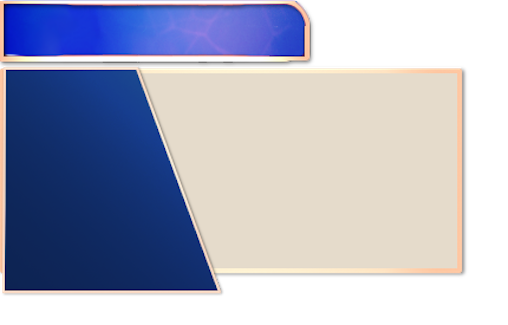
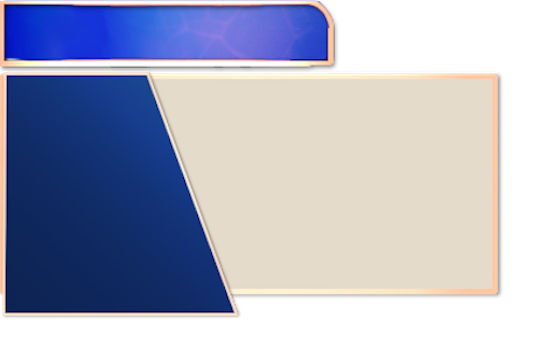
sandbox graphics work

diff --git a/sandbox.py b/sandbox.py
@@ -7,7 +7,7 @@ GRID_COLOR = "white"
 GRID_OPACITY = 30
 SANS_GAME_FONT = "FiraSans-Light.ttf"
 SERIF_GAME_FONT = "Martel-Bold.ttf"
-OVERLAY_PLACEMENTS = [(3,80),(4,23),(11,9),(10,90),(70,92),(130,92),(38,88),(100,88),(160,88),(10,124), (10,515)]
+OVERLAY_PLACEMENTS = [(3,80),(4,23),(11,9),(10,90),(70,92),(130,92),(38,88),(100,88),(160,88),(10,124), (10,500), (225,594), (182,586)]
 GUARD_ICON = "app/app_imgs/overlays/guard_001.png"
 AVOID_ICON = "app/app_imgs/overlays/avoid_001.png"
 HEAL_ICON = "app/app_imgs/overlays/heal_001.png"
@@ -210,6 +210,8 @@ class sandbox():
         ground_desc = overlayOver(image64="app/app_imgs/overlays/tile_desc_001.png",image32=None)
         tile_name = overlayOver(image64="app/app_imgs/overlays/tile_name_001.png",image32=None)
         unit_info = overlayOver(image64="app/app_imgs/overlays/unit_info_001.png", image32=None)
+        xp_bar = overlayOver(image64="app/app_imgs/overlays/xp_bar_001.png", image32=None)
+        xp_crest = overlayOver(image64="app/app_imgs/overlays/xp_crest_001.png", image32=None)
         
         global OVERLAY_PLACEMENTS, GUARD_ICON, AVOID_ICON, HEAL_ICON
         self.fake_screen.blit(ground_desc.image, OVERLAY_PLACEMENTS[0])
@@ -223,6 +225,8 @@ class sandbox():
         self.fake_screen.blit(avoid.image, OVERLAY_PLACEMENTS[4])
         self.fake_screen.blit(heal.image, OVERLAY_PLACEMENTS[5])
         self.fake_screen.blit(unit_info.image, OVERLAY_PLACEMENTS[10])
+        self.fake_screen.blit(xp_bar.image, OVERLAY_PLACEMENTS[11])
+        self.fake_screen.blit(xp_crest.image, OVERLAY_PLACEMENTS[11])
         
     #update cursor/selected overlays
     def showCursor(self):
@@ -328,6 +332,9 @@ class sandbox():
         self.fake_screen.blit(guard_text, OVERLAY_PLACEMENTS[6])
         self.fake_screen.blit(avoid_text, OVERLAY_PLACEMENTS[7])
         self.fake_screen.blit(heal_text, OVERLAY_PLACEMENTS[8])
+        
+        level_text = self.fonts["SERIF_20"].render("Lvl 11", 1, color)
+        self.fake_screen.blit(level_text, OVERLAY_PLACEMENTS[12])
         
         global TILE_TYPES, TILE_TYPE_NAMES
         #Remove these if statements- a real level will have data for all tiles
